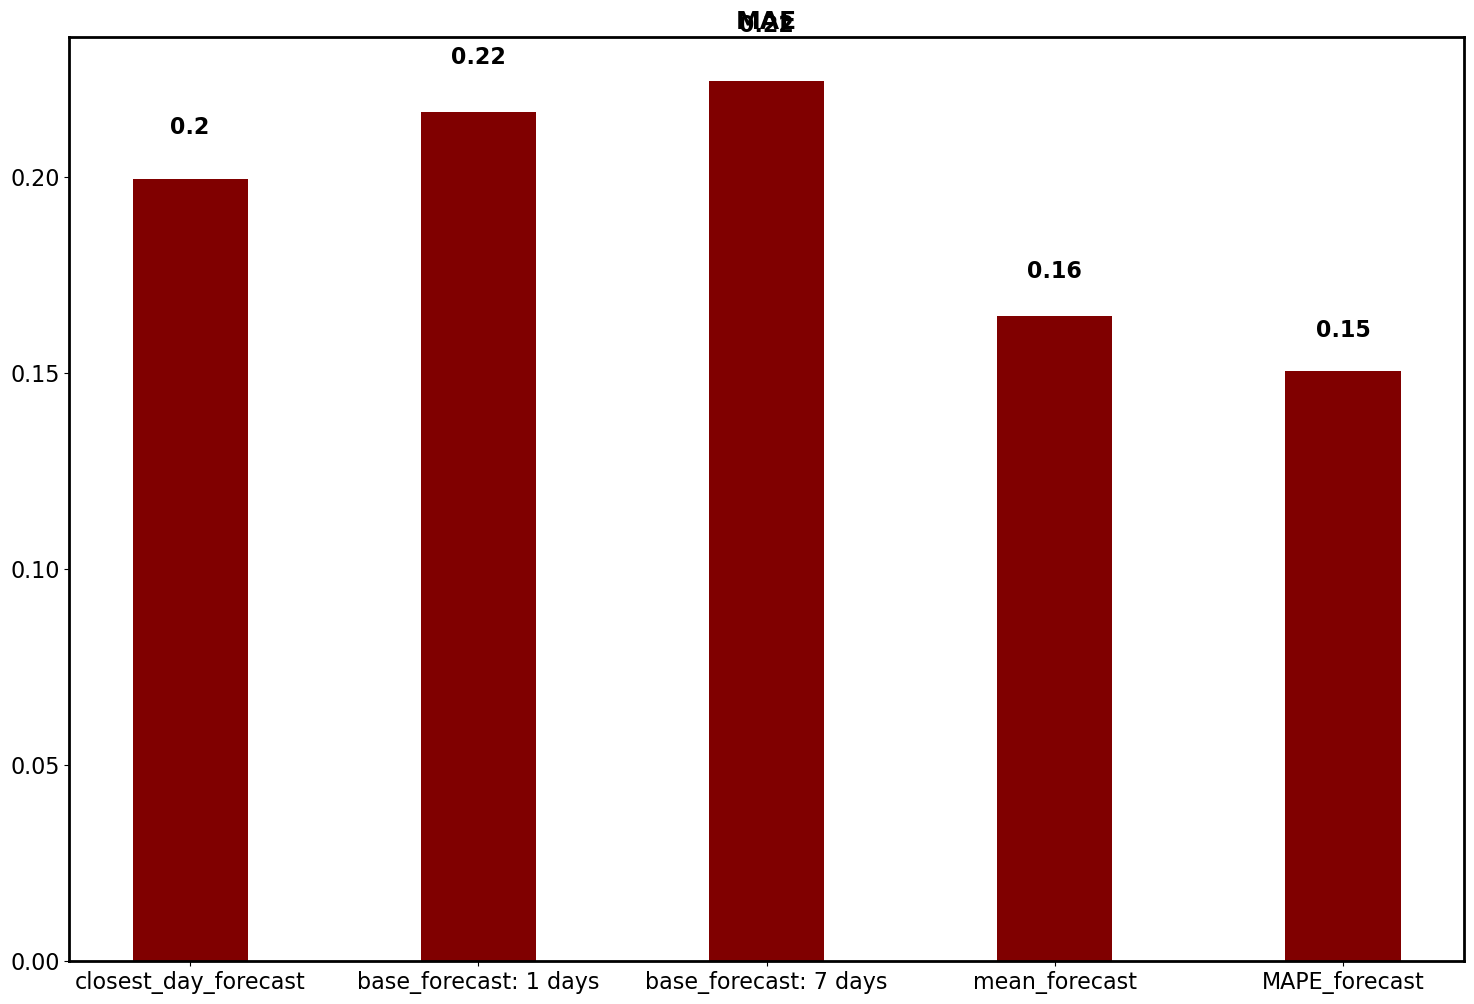
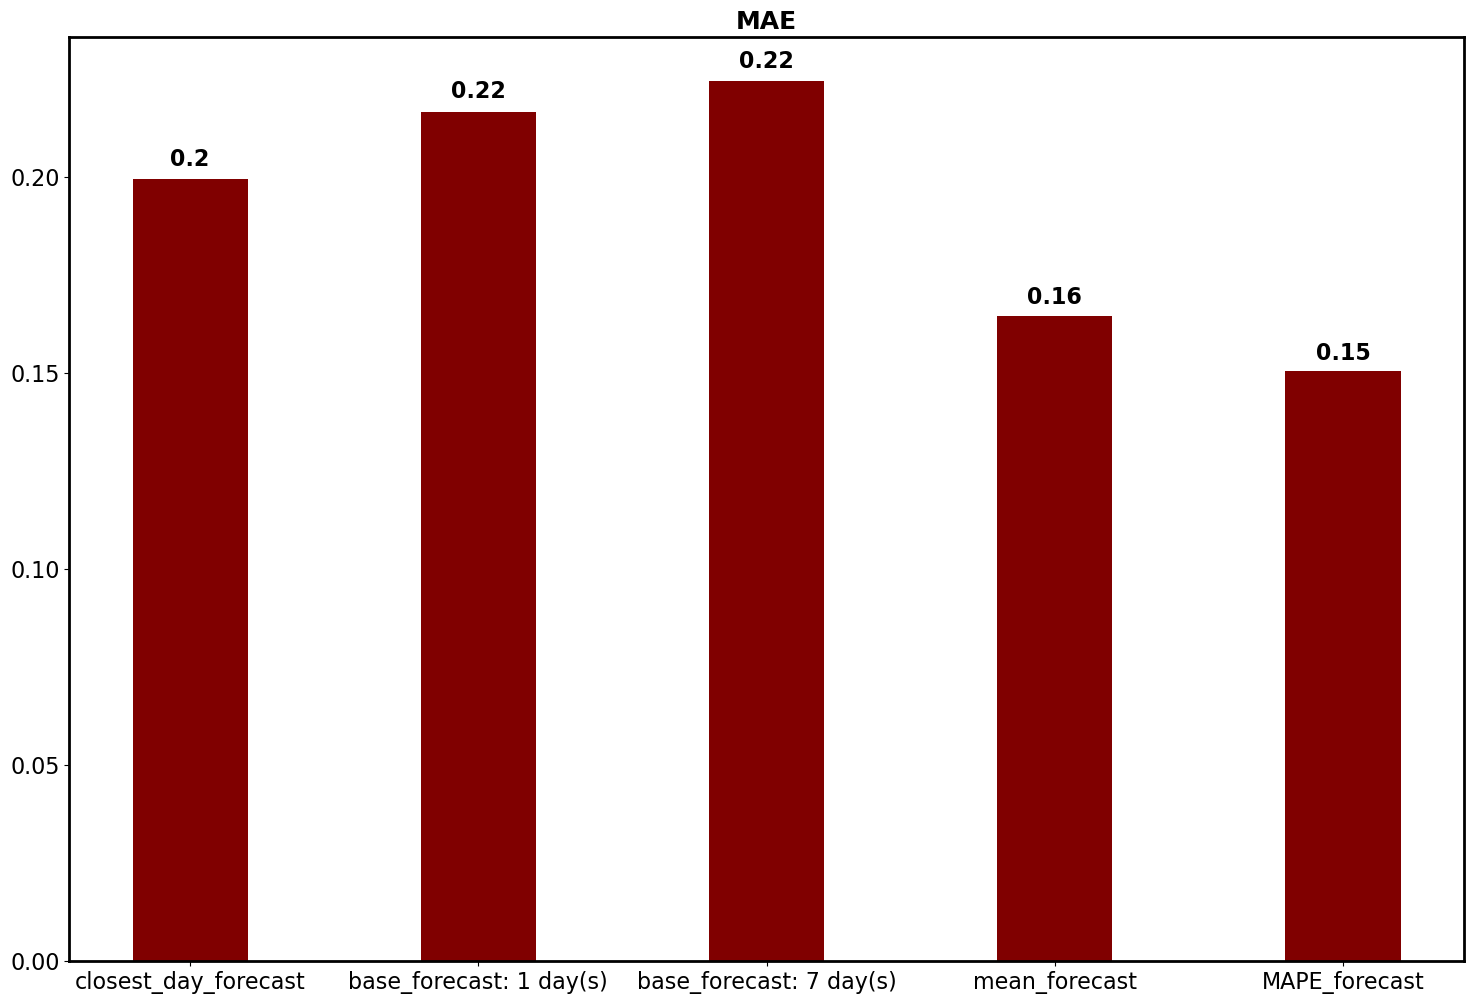
basemodels finished

diff --git a/Forecasting/Test_basemodel_functions.py b/Forecasting/Test_basemodel_functions.py
@@ -243,7 +243,7 @@ def autolabel(rects,ax):
     """
     for rect in rects:
         height = rect.get_height()
-        ax.text(rect.get_x() + rect.get_width()/2., 1.05*height,
+        ax.text(rect.get_x() + rect.get_width()/2., 1.01*height,
                 '%s' % np.around(height,2),
                 ha='center', va='bottom', fontweight='bold',fontsize=16)
 

diff --git a/Forecasting/Test_basemodel.py b/Forecasting/Test_basemodel.py
@@ -35,7 +35,7 @@ av_temperature.index = pd.to_datetime(av_temperature.index)
 
 vertical_stack = pd.DataFrame()
 
-for col_name in fullYeardata.columns[0:1]:
+for col_name in fullYeardata.columns:
     TS = fullYeardata[col_name]
     TS_temperature = av_temperature[col_name]
     TS_december = TS[TS.index.month == 12]
